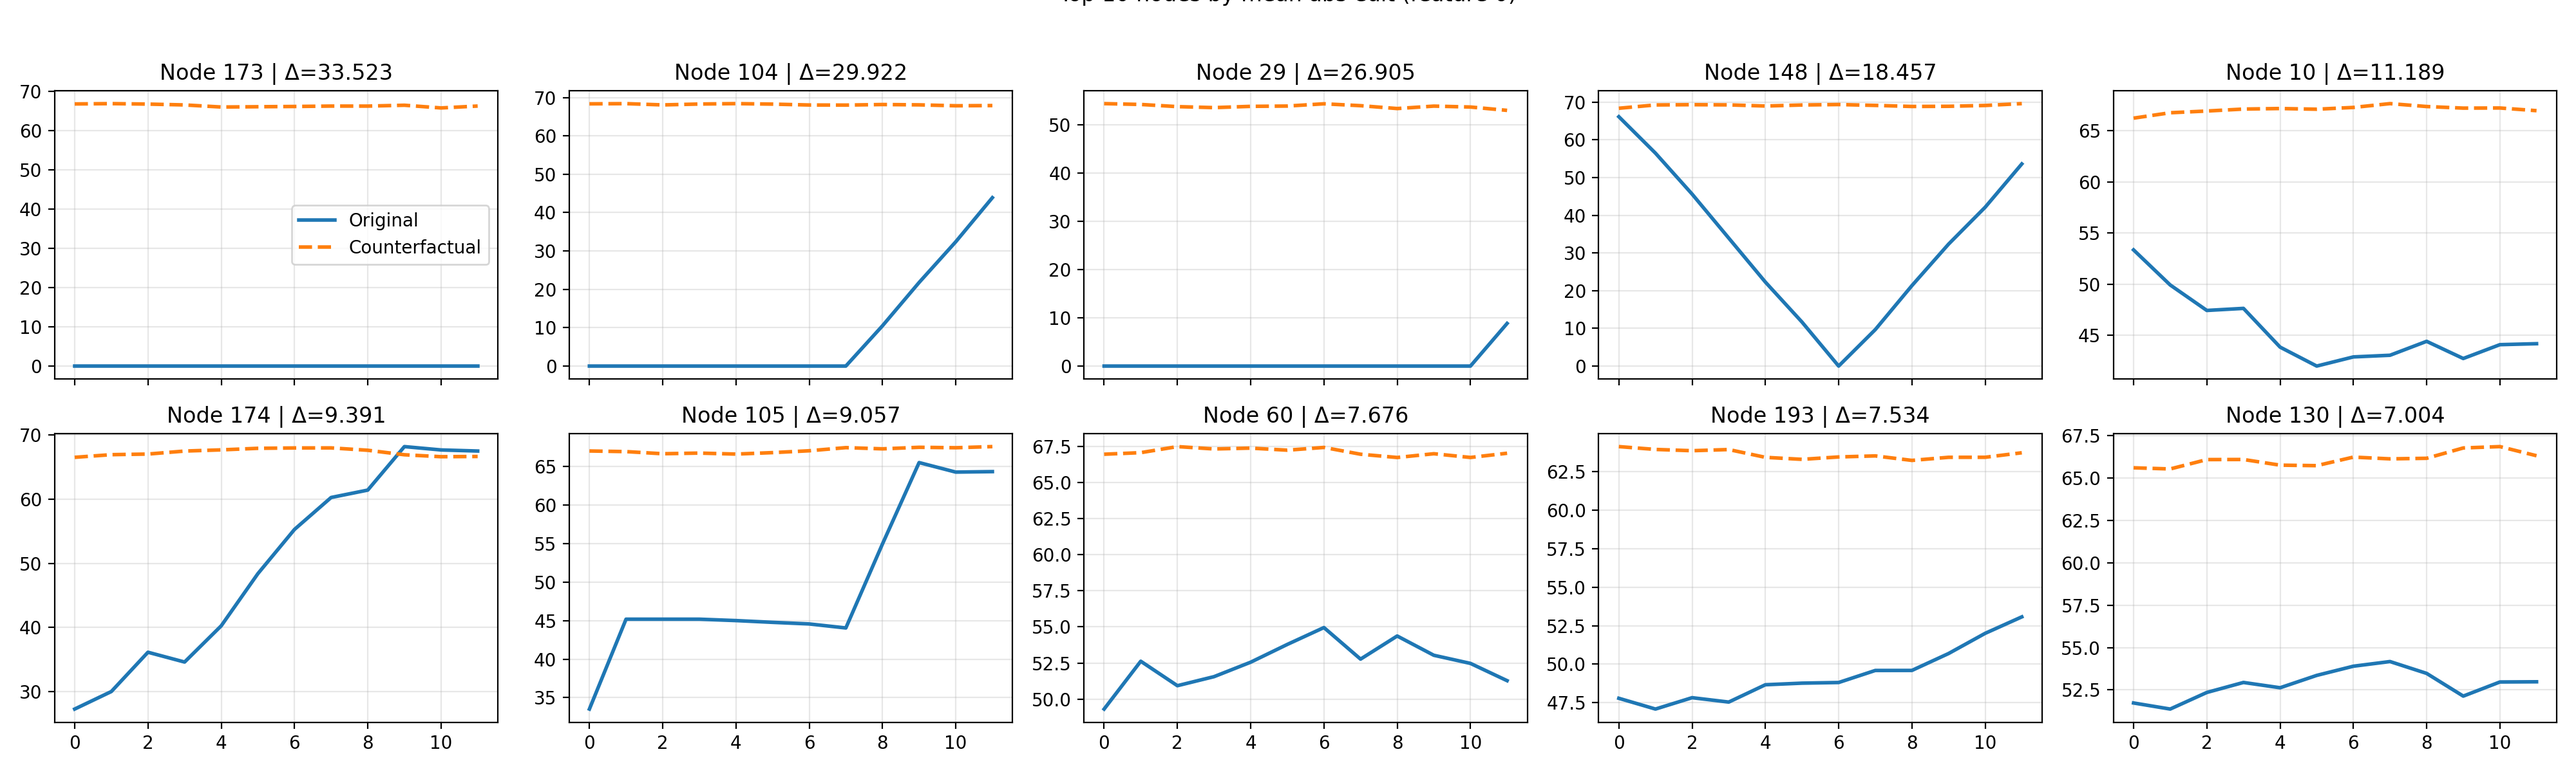
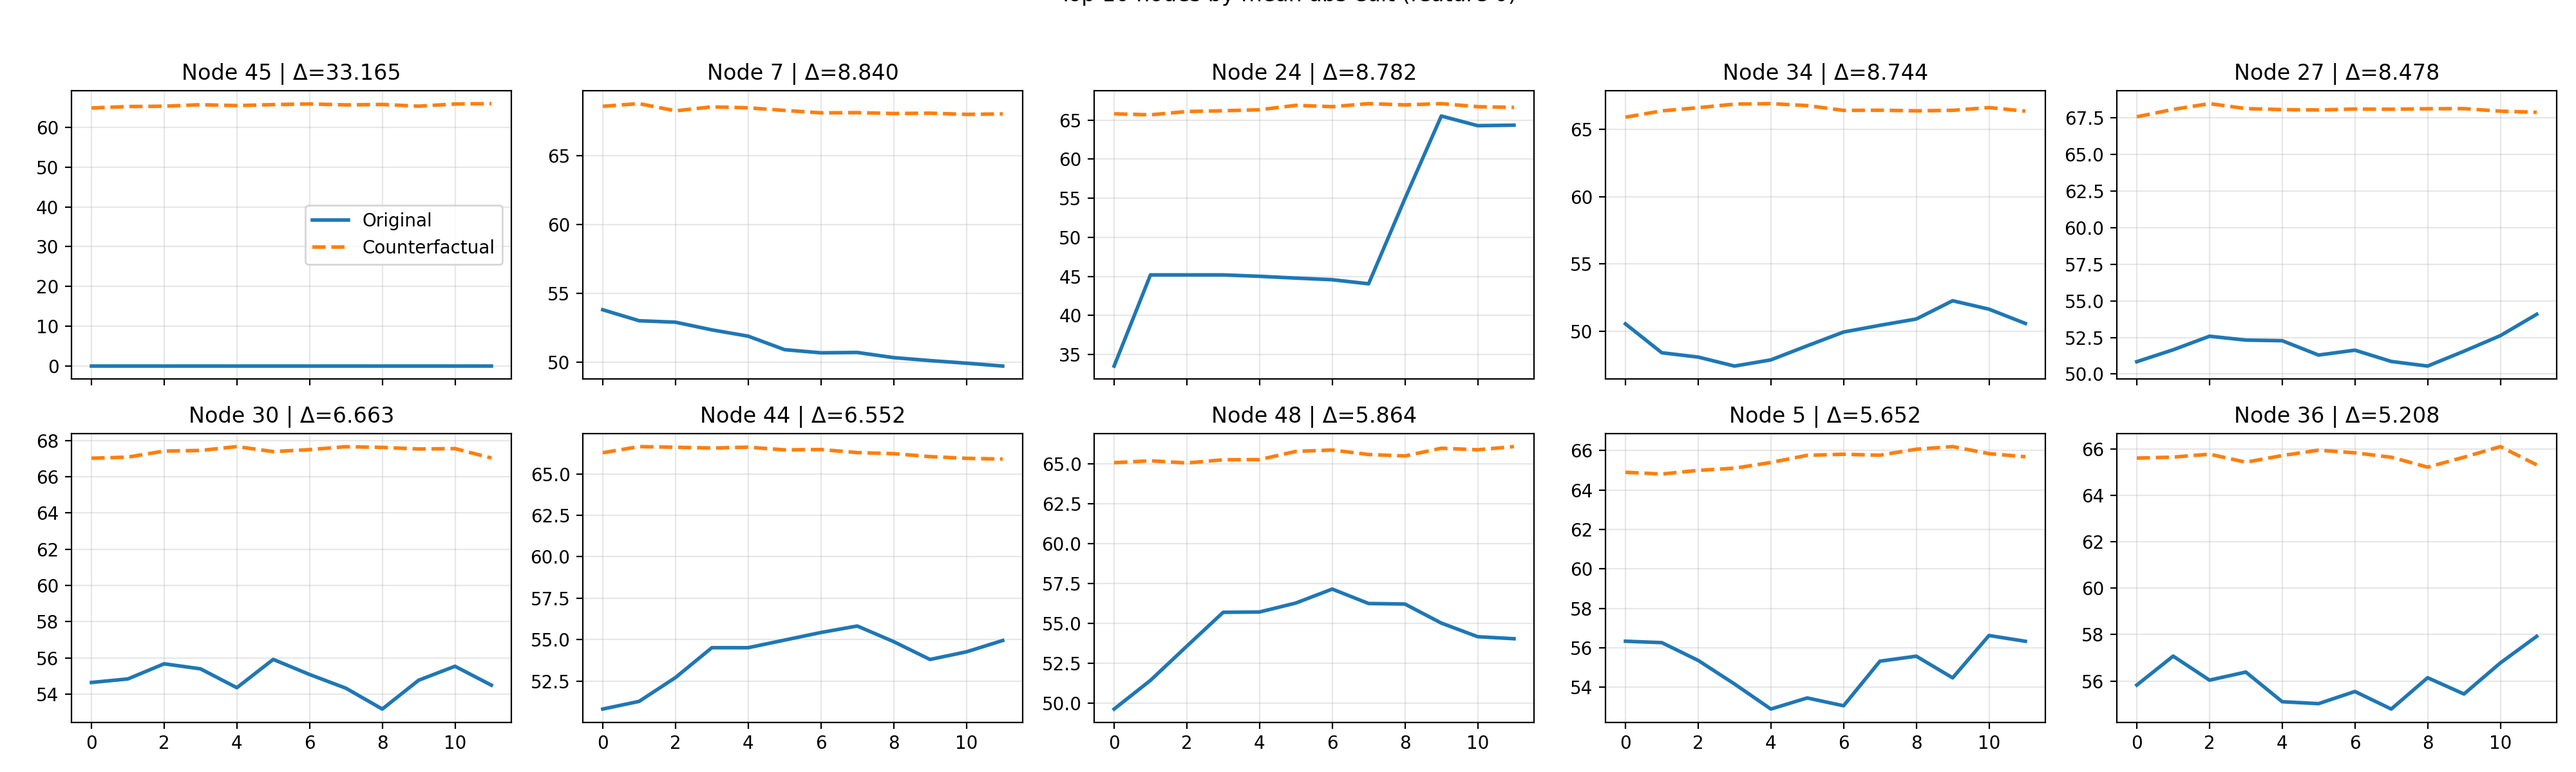
Add guidance imputation sampling and temporal roughness calculation in main.py; update counterfactual plotting images
- Introduced a new command-line argument for specifying the number of imputed guidance trajectories to sample.
- Added a function to calculate temporal roughness for improved path selection during guidance.
- Updated logic in the diffusion guidance target construction to select the smoothest imputed path.
- Replaced counterfactual plotting images with updated versions.

diff --git a/main.py b/main.py
@@ -307,6 +307,12 @@ def add_counterfactual_subcommand(subparsers: argparse._SubParsersAction[argpars
         help="Number of diffusion steps to use when imputing the guidance trajectory between anchors.",
     )
     parser.add_argument(
+        "--guidance_impute_samples",
+        type=int,
+        default=10,
+        help="Number of imputed guidance trajectories to sample per node and select the smoothest.",
+    )
+    parser.add_argument(
         "--guidance_impute_schedule",
         type=str,
         choices=["linear", "cosine"],
@@ -625,6 +631,13 @@ def _temporal_smooth_1d(x: torch.Tensor) -> torch.Tensor:
     return (left + x + right) / 3.0
 
 
+def _temporal_roughness_1d(x: torch.Tensor) -> torch.Tensor:
+    if x.numel() <= 1:
+        return x.new_tensor(0.0)
+    diffs = x[1:] - x[:-1]
+    return torch.mean(diffs.pow(2))
+
+
 def diffusion_impute_path(
     start_value: torch.Tensor,
     end_value: torch.Tensor,
@@ -692,6 +705,7 @@ def build_diffusion_guidance_target(
     target_node: int,
     target_channel: int,
     impute_steps: int = 64,
+    num_samples: int = 10,
     beta_schedule: str = "cosine",
     beta_start: float = 1e-4,
     beta_end: float = 0.02,
@@ -712,6 +726,7 @@ def build_diffusion_guidance_target(
         raise ValueError(f"target_adjust_node {target_node} is out of range for {num_nodes} nodes")
 
     impute_steps = int(max(1, impute_steps))
+    num_samples = int(max(1, num_samples))
     betas = build_beta_schedule(beta_schedule, impute_steps, beta_start=beta_start, beta_end=beta_end).to(baseline.device)
     guidance = baseline.clone()
 
@@ -725,8 +740,15 @@ def build_diffusion_guidance_target(
         start_val = start_values[node]
         end_val = adjusted_target[node, -1].to(baseline.device, baseline.dtype)
         prior_path = baseline[node]
-        imputed = diffusion_impute_path(start_val, end_val, prior_path, betas)
-        guidance[node] = imputed
+        best_path = None
+        best_score = None
+        for _ in range(num_samples):
+            imputed = diffusion_impute_path(start_val, end_val, prior_path, betas)
+            score = float(_temporal_roughness_1d(imputed).item())
+            if best_score is None or score < best_score:
+                best_score = score
+                best_path = imputed
+        guidance[node] = prior_path if best_path is None else best_path
 
     return guidance
 
@@ -1232,6 +1254,7 @@ def run_counterfactual_command(args: argparse.Namespace) -> None:
                 args.target_adjust_node,
                 target_ch,
                 impute_steps=args.guidance_impute_steps,
+                num_samples=args.guidance_impute_samples,
                 beta_schedule=args.guidance_impute_schedule,
                 beta_start=diffusion.config.beta_start,
                 beta_end=diffusion.config.beta_end,
